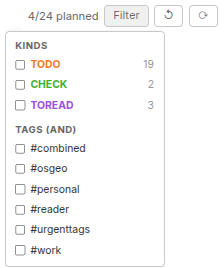
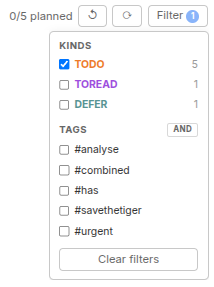
Filter with and/or option
Fixes layout filter menu

diff --git a/weeklyplanner/planner.jsx b/weeklyplanner/planner.jsx
@@ -10,6 +10,7 @@
  *   • IDEA   <text>   — captured thought    (blue)
  *   • CHECK  <text>   — to verify / review  (green)
  *   • TOREAD <text>   — reading queue       (purple)
+ *   • DEFER <text>   — Follow up later       (teal)
  *
  * Prefixes are case-sensitive, must be at the start of a line/block,
  * and must be followed by a space. Mark-done wraps the line in
@@ -42,6 +43,7 @@
  *          #wp_idea=#348cbb          override IDEA chip color
  *          #wp_check=#42ae2e         override CHECK chip color
  *          #wp_toread=#9d4edd        override TOREAD chip color
+ *          #wp_defer=#008080         override DEFER chip color
  *        Theme (any CSS color string):
  *          #wp_bg_task=#f3f3f3          task card background
  *          #wp_bg_panel=#fafafa         column / panel background
@@ -63,13 +65,13 @@ const KINDS = {
     IDEA:   { label: 'IDEA',   color: '#348cbb' },
     CHECK:  { label: 'CHECK',  color: '#42ae2e' },
     TOREAD: { label: 'TOREAD', color: '#9d4edd' },
+    DEFER:  { label: 'DEFER',  color: '#589393' },
 };
 const KIND_KEYS = Object.keys(KINDS);
 const KIND_RE_SOURCE = `(?:${KIND_KEYS.join('|')})`;
 
 /* Color overrides come from labels on the #plannerdata note:
-   #wp_todo, #wp_idea, #wp_check, #wp_toread.
-   The override map is threaded through props to any component that needs it. */
+   #wp_todo, #wp_idea, #wp_check, #wp_toread.*/
 function getKindColor(kind, overrides) {
     if (overrides && overrides[kind]) return overrides[kind];
     return KINDS[kind]?.color || '#666';
@@ -142,9 +144,7 @@ function tokenToIsoDate(token, baseDate) {
 /* Extracts @date and #tags from raw task text.
    Returns { isoDate, tags } where:
      isoDate = null or 'YYYY-MM-DD'
-     tags    = string[] of lowercase tag names (without #)
-   The @suffix and #tags both remain in the original task text — they're
-   styled in place by the renderer, not stripped. */
+     tags    = string[] of lowercase tag names (without #)*/
 function parseTaskMeta(rawText) {
     const tags = [];
     const tagRe = /#([a-zA-Z][\w-]*)/g;
@@ -191,9 +191,6 @@ async function loadPlannerData() {
         }
 
         // #wp_scan_archived → explicit override of SCAN_ARCHIVED_DEFAULT.
-        //   false/no/0/off  → skip archived notes
-        //   true/yes/1/on   → scan archived notes
-        //   (any other value or missing → fall back to default)
         let scanArchived = defaultScanArchived;
         const scanLabel = labelStr('wp_scan_archived');
         if (scanLabel != null) {
@@ -203,12 +200,12 @@ async function loadPlannerData() {
         }
 
         // Per-kind color overrides:
-        //   #wp_todo, #wp_idea, #wp_check, #wp_toread
         const kindLabelMap = {
             TODO:   'wp_todo',
             IDEA:   'wp_idea',
             CHECK:  'wp_check',
             TOREAD: 'wp_toread',
+            DEFER:  'wp_defer',
         };
         const colorOverrides = {};
         for (const kind in kindLabelMap) {
@@ -265,14 +262,7 @@ function buildPrefixGlobClause() {
     return KIND_KEYS.map(k => `b.content GLOB '*${k} *'`).join(' OR ');
 }
 
-/* Scan all text notes for prefixed lines.
-   Uses a SQL prefilter against the `blobs` table so notes containing no
-   prefix are excluded before any JavaScript scanning. Falls back to a
-   plain SELECT against `notes` if the JOIN form fails (older Trilium
-   versions that store content differently).
-   If `scanArchived` is false, notes that Trilium considers archived
-   (either via a direct #archived label or one inherited from an ancestor)
-   are skipped. */
+/* Scan all text notes for prefixed lines.*/
 async function fetchAllTasks({ scanArchived = SCAN_ARCHIVED_DEFAULT } = {}) {
     const kindRe = KIND_RE_SOURCE;
     const prefixClause = buildPrefixGlobClause();
@@ -320,7 +310,6 @@ async function fetchAllTasks({ scanArchived = SCAN_ARCHIVED_DEFAULT } = {}) {
             );
         } catch (err) {
             // Fallback for unexpected schema differences: plain SELECT,
-            // the in-JS scanner will reject prefix-less notes by itself.
             rows = api.sql.getRows(
                 "SELECT noteId, title FROM notes " +
                 "WHERE isDeleted = 0 AND isProtected = 0 AND type = 'text' " +
@@ -346,8 +335,7 @@ async function fetchAllTasks({ scanArchived = SCAN_ARCHIVED_DEFAULT } = {}) {
     return flattenGroups(groups);
 }
 
-/* Re-scan a single note. Returns a (possibly empty) array of tasks
-   in the same shape as fetchAllTasks. Used after mark-done and capture
+/* Re-scan a single note. Used after mark-done and capture
    to avoid a full database scan when we know which note changed. */
 async function fetchTasksForNote(noteId, { scanArchived = SCAN_ARCHIVED_DEFAULT } = {}) {
     const kindRe = KIND_RE_SOURCE;
@@ -393,8 +381,7 @@ async function fetchTasksForNote(noteId, { scanArchived = SCAN_ARCHIVED_DEFAULT 
     return flattenGroups(groups);
 }
 
-/* Flatten {noteId, title, tasks:[...]} groups into the array shape used by
-   the UI: { id, kind, text, tags, isoDate, indexForKind, noteId, noteTitle }. */
+/* Flatten {noteId, title, tasks:[...]} groups */
 function flattenGroups(groups) {
     const all = [];
     for (const g of groups) {
@@ -505,14 +492,23 @@ function weekLabel(cols) {
 ══════════════════════════════════════════════════════════════════ */
 
 function applyFilters(tasks, filters) {
-    const { kinds, tags } = filters;
+    const { kinds, tags, tagMode } = filters;
     return tasks.filter(t => {
         // Kind filter: if no kinds selected (empty set), show all
         if (kinds && kinds.size > 0 && !kinds.has(t.kind)) return false;
-        // Tag filter (AND): every selected tag must be present
+        // Tag filter: AND requires every selected tag, OR requires any.
+        // Default to AND if tagMode isn't set (backward compat).
         if (tags && tags.size > 0) {
-            for (const tag of tags) {
-                if (!t.tags.includes(tag)) return false;
+            if (tagMode === 'OR') {
+                let any = false;
+                for (const tag of tags) {
+                    if (t.tags.includes(tag)) { any = true; break; }
+                }
+                if (!any) return false;
+            } else {
+                for (const tag of tags) {
+                    if (!t.tags.includes(tag)) return false;
+                }
             }
         }
         return true;
@@ -557,9 +553,7 @@ function withOrderUpdate(plannerData, col, taskId, insertBeforeId, allTasks) {
    CSS — light theme, kind colors
 ══════════════════════════════════════════════════════════════════ */
 
-/* Builds the planner's CSS for a given resolved theme.
-   Called once at startup with the resolved theme, then re-called only
-   when label-based overrides change (rare; mostly never within a session). */
+/* Builds the planner's CSS for a given resolved theme. */
 function buildStyle(theme) {
     return `
 .pl-root { display:flex; flex-direction:column; height:100%; overflow:hidden;
@@ -642,7 +636,7 @@ body.pl-resizing * { cursor:col-resize !important; }
 .pl-filter-panel { position:fixed; z-index:9998;
                    background:#fff; border:1px solid #c8c8c8; border-radius:6px;
                    box-shadow:0 4px 12px rgba(0,0,0,.12);
-                   padding:10px 12px; min-width:200px;
+                   padding:10px 12px; min-width:200px; max-width:240px;
                    max-height:80vh; overflow-y:auto; }
 .pl-filter-panel h5 { margin:0 0 4px; font-size:12px;
                       text-transform:uppercase; letter-spacing:.05em;
@@ -770,10 +764,7 @@ function TaskCard({ task, progress, overrides, draggable, onClick, onMarkDone, o
         catch (err) { console.error(err); setWorking(false); }
     };
 
-    // Progress click: cycle 0 → 25 → 50 → 75 → 100 → 0.
-    // Progress click cycles 0 → 25 → 50 → 75 → 0.
-    // The bar deliberately does NOT reach 100 — completion is the ✓ button's job,
-    // so a misclick on the bar can't accidentally mark a task done.
+    // Progress click: cycle 0 → 25 → 50 → 75 → 0.
     const handleProgressClick = (e) => {
         e.stopPropagation();
         const current = progress || 0;
@@ -913,6 +904,7 @@ function CapturePanel({ onCapture, working }) {
 function FilterDropdown({ allTasks, filters, onChange, overrides }) {
     const [open, setOpen] = useState(false);
     const wrapRef = useRef(null);
+    const [panelPos, setPanelPos] = useState(null);
 
     // Close on outside click
     useEffect(() => {
@@ -922,6 +914,22 @@ function FilterDropdown({ allTasks, filters, onChange, overrides }) {
         };
         document.addEventListener('mousedown', handler);
         return () => document.removeEventListener('mousedown', handler);
+    }, [open]);
+
+    // Compute panel position whenever it opens.
+    useEffect(() => {
+        if (!open) {
+            setPanelPos(null);
+            return;
+        }
+        if (!wrapRef.current) return;
+        const btn = wrapRef.current.querySelector('button');
+        if (!btn) return;
+        const r = btn.getBoundingClientRect();
+        setPanelPos({
+            top:   r.bottom + 4,                          // 4px below the trigger
+            right: Math.max(8, window.innerWidth - r.right), // align panel right edge to button right edge
+        });
     }, [open]);
 
     // Compute kinds and tags that actually exist
@@ -950,9 +958,14 @@ function FilterDropdown({ allTasks, filters, onChange, overrides }) {
         else tags.add(tag);
         onChange({ ...filters, tags });
     };
-    const clearAll = () => onChange({ kinds: new Set(), tags: new Set() });
+    const clearAll = () => onChange({ ...filters, kinds: new Set(), tags: new Set() });
+    const toggleTagMode = () => {
+        const next = filters.tagMode === 'OR' ? 'AND' : 'OR';
+        onChange({ ...filters, tagMode: next });
+    };
 
     const activeCount = filters.kinds.size + filters.tags.size;
+    const tagMode = filters.tagMode === 'OR' ? 'OR' : 'AND';
 
     return (
         <div class="pl-filter-wrap" ref={wrapRef}>
@@ -960,7 +973,10 @@ function FilterDropdown({ allTasks, filters, onChange, overrides }) {
                 Filter{activeCount > 0 && <span class="pl-filter-badge">{activeCount}</span>}
             </button>
             {open && (
-                <div class="pl-filter-panel">
+                <div
+                    class="pl-filter-panel"
+                    style={panelPos ? { top: `${panelPos.top}px`, right: `${panelPos.right}px` } : { visibility: 'hidden' }}
+                >
                     {presentKinds.length > 0 && (
                         <>
                             <h5>Kinds</h5>
@@ -983,7 +999,29 @@ function FilterDropdown({ allTasks, filters, onChange, overrides }) {
                     )}
                     {allTags.length > 0 && (
                         <>
-                            <h5>Tags (AND)</h5>
+                            <h5 style={{ display: 'flex', alignItems: 'center' }}>
+                                <span>Tags</span>
+                                <button
+                                    onClick={toggleTagMode}
+                                    title={tagMode === 'AND'
+                                        ? 'AND: a task must have all selected tags. Click to switch to OR.'
+                                        : 'OR: a task must have any selected tag. Click to switch to AND.'}
+                                    style={{
+                                        marginLeft: 'auto',
+                                        padding: '1px 6px',
+                                        fontSize: '10px',
+                                        fontWeight: 700,
+                                        border: '1px solid #d8d8d8',
+                                        background: '#fff',
+                                        color: '#666',
+                                        borderRadius: '3px',
+                                        cursor: 'pointer',
+                                        letterSpacing: '.05em',
+                                    }}
+                                >
+                                    {tagMode}
+                                </button>
+                            </h5>
                             <div style={{ maxHeight: '160px', overflowY: 'auto' }}>
                                 {allTags.map(tag => (
                                     <label class="pl-filter-row" key={tag}>
@@ -1029,15 +1067,13 @@ function PlannerApp() {
     const [scanArchived, setScanArchived] = useState(SCAN_ARCHIVED_DEFAULT);
 
     // Filters: persisted in plannerData._filters as { kinds: [], tags: [] }
-    const [filters, setFilters] = useState({ kinds: new Set(), tags: new Set() });
+    const [filters, setFilters] = useState({ kinds: new Set(), tags: new Set(), tagMode: 'AND' });
 
     const dragState = useRef({ id: null, insertBeforeId: null, dragMoved: false });
     const [insertMarker, setInsertMarker] = useState({ col: null, beforeId: null });
     const [isResizing,   setIsResizing]   = useState(false);
 
     // Resolved theme: defaults merged with label-based overrides.
-    // Memoised so a stable reference is passed to children and the CSS
-    // injection effect doesn't re-run on every render.
     const theme = useMemo(() => resolveTheme(themeOverrides), [themeOverrides]);
 
     // Inject CSS whenever the resolved theme changes (and once on mount).
@@ -1068,8 +1104,9 @@ function PlannerApp() {
                 // Apply persisted UI state from data
                 if (data._filters) {
                     setFilters({
-                        kinds: new Set(data._filters.kinds || []),
-                        tags:  new Set(data._filters.tags  || []),
+                        kinds:   new Set(data._filters.kinds || []),
+                        tags:    new Set(data._filters.tags  || []),
+                        tagMode: data._filters.tagMode === 'OR' ? 'OR' : 'AND',
                     });
                 }
                 const persistedWidth = data._backlogWidth;
@@ -1112,13 +1149,14 @@ function PlannerApp() {
         setPlannerData(prev => ({
             ...prev,
             _filters: {
-                kinds: Array.from(filters.kinds),
-                tags:  Array.from(filters.tags),
+                kinds:   Array.from(filters.kinds),
+                tags:    Array.from(filters.tags),
+                tagMode: filters.tagMode || 'AND',
             },
         }));
     }, [filters]);
 
-    /* Full reload — used by the ⟳ button. Slower but covers every case
+    /* Full reload, used by the ⟳ button. Covers every case
        (note deleted, kind changed, multiple notes edited). */
     const reload = useCallback(async () => {
         try {
@@ -1131,8 +1169,7 @@ function PlannerApp() {
         }
     }, [applyDateSuffixes, scanArchived]);
 
-    /* Single-note reload — used after mark-done and capture, when we know
-       exactly which note changed. Avoids a full database scan.
+    /* Single-note reload — used after mark-done and capture, 
        Replaces all tasks belonging to that note with the freshly-scanned ones,
        which is what keeps per-kind indices accurate after a mark-done. */
     const reloadNote = useCallback(async (noteId) => {
@@ -1405,14 +1442,14 @@ function PlannerApp() {
                 <span style={{ fontSize: '14px', color: '#666', marginLeft: 'auto' }}>
                     {planned}/{total} planned
                 </span>
+                <button class="pl-btn muted" onClick={() => clearWeek(weekKeys)} title="Clear this week">↺</button>
+                <button class="pl-btn muted" onClick={reload} title="Reload tasks">⟳</button>
                 <FilterDropdown
                     allTasks={allTasks}
                     filters={filters}
                     onChange={setFilters}
                     overrides={colorOverrides}
                 />
-                <button class="pl-btn muted" onClick={() => clearWeek(weekKeys)} title="Clear this week">↺</button>
-                <button class="pl-btn muted" onClick={reload} title="Reload tasks">⟳</button>
             </div>
 
             <CapturePanel onCapture={capture} working={capturing} />

diff --git a/README.md b/README.md
@@ -41,7 +41,7 @@ Task Planner is a weekly planner for [Trilium Notes](https://triliumnotes.org/),
 
 Type e.g., `TODO buy milk` anywhere in a daily note, meeting note, or project note. The task appears in the planner. Drag it to a day column to schedule it. Mark it done from the planner, and the original source line is greyed out in place.
 
-The planner supports four task types: `TODO`, `IDEA`, `CHECK`, and `TOREAD`. You can schedule tasks by dragging them, or by adding date tokens such as `@today`, `@tomorrow`, `@fri`, or `@2026-05-20`.
+The planner supports four task types: `TODO`, `IDEA`, `CHECK`, `DEFER` and `TOREAD`. You can schedule tasks by dragging them, or by adding date tokens such as `@today`, `@tomorrow`, `@fri`, or `@2026-05-20`.
 
 ![](images/overview.png)
 
@@ -118,6 +118,7 @@ The planner scans every text note in the whole Trilium database for lines that s
 | `IDEA` | Captured thought | blue |
 | `CHECK` | To verify or review | green |
 | `TOREAD` | Reading queue | purple |
+| `DEFER` | Follow up later | teal |
 
 Prefixes are case-sensitive and must be followed by a space. They must appear at the start of a paragraph, at the start of a list item, or after a `<br>`. Anything else, such as `My TODO list:` in prose, is ignored.
 
@@ -192,7 +193,7 @@ TODO call mom #personal
 TODO deploy staging #work #urgent
 ```
 
-Tags display as small grey pills on the card and feed the filter dropdown. Tags must start with a letter and can include letters, digits, underscores, and hyphens. Tags stay in the source note and do not move.
+Tags display in light grey inline within the task text, in the same position you typed them. They feed the filter dropdown but are not duplicated below the card. Tags must start with a letter and can include letters, digits, underscores, and hyphens. 
 
 ### Filtering
 
@@ -207,7 +208,7 @@ Click the **Filter** button in the top-right of the planner header. The dropdown
 | Filter type | Behaviour |
 | --- | --- |
 | Kinds | Checkboxes for each prefix type that has at least one task. Toggle them to hide or show task kinds. |
-| Tags | Checkboxes for every tag found across all tasks. Multiple selected tags are combined with AND, so a task must have all selected tags to show. |
+| Tags | Checkboxes for every tag found across all tasks. The header of the Tags section has a small `AND`/`OR` toggle that switches how multiple selected tags combine: **AND** means a task must have all selected tags; **OR** means a task must have at least one. The mode is persisted and defaults to AND. |
 
 If no kinds are selected, all kinds show. If no tags are selected, tag filtering is off. The active filter count appears as a small blue badge on the Filter button. **Clear filters** resets both kind and tag filters.
 
@@ -247,6 +248,7 @@ All settings are labels you add to the `#plannerdata` note. They all share the `
 | `#wp_idea=<colour>` | Overrides the `IDEA` chip colour. Default: blue. |
 | `#wp_check=<colour>` | Overrides the `CHECK` chip colour. Default: green. |
 | `#wp_toread=<colour>` | Overrides the `TOREAD` chip colour. Default: purple. |
+| `#wp_defer=<colour>` | Overrides the `DEFER` chip colour. Default: teal. |
 | `#wp_bg_task=<colour>` | Background colour of task cards. Default: `#f3f3f3`. |
 | `#wp_bg_panel=<colour>` | Background colour of the day and Backlog columns. Default: `#fafafa`. |
 | `#wp_color_done_text=<colour>` | Colour applied to the grey-out span around finished `DONE` lines in source notes. Default: `#cfcfcf`. |